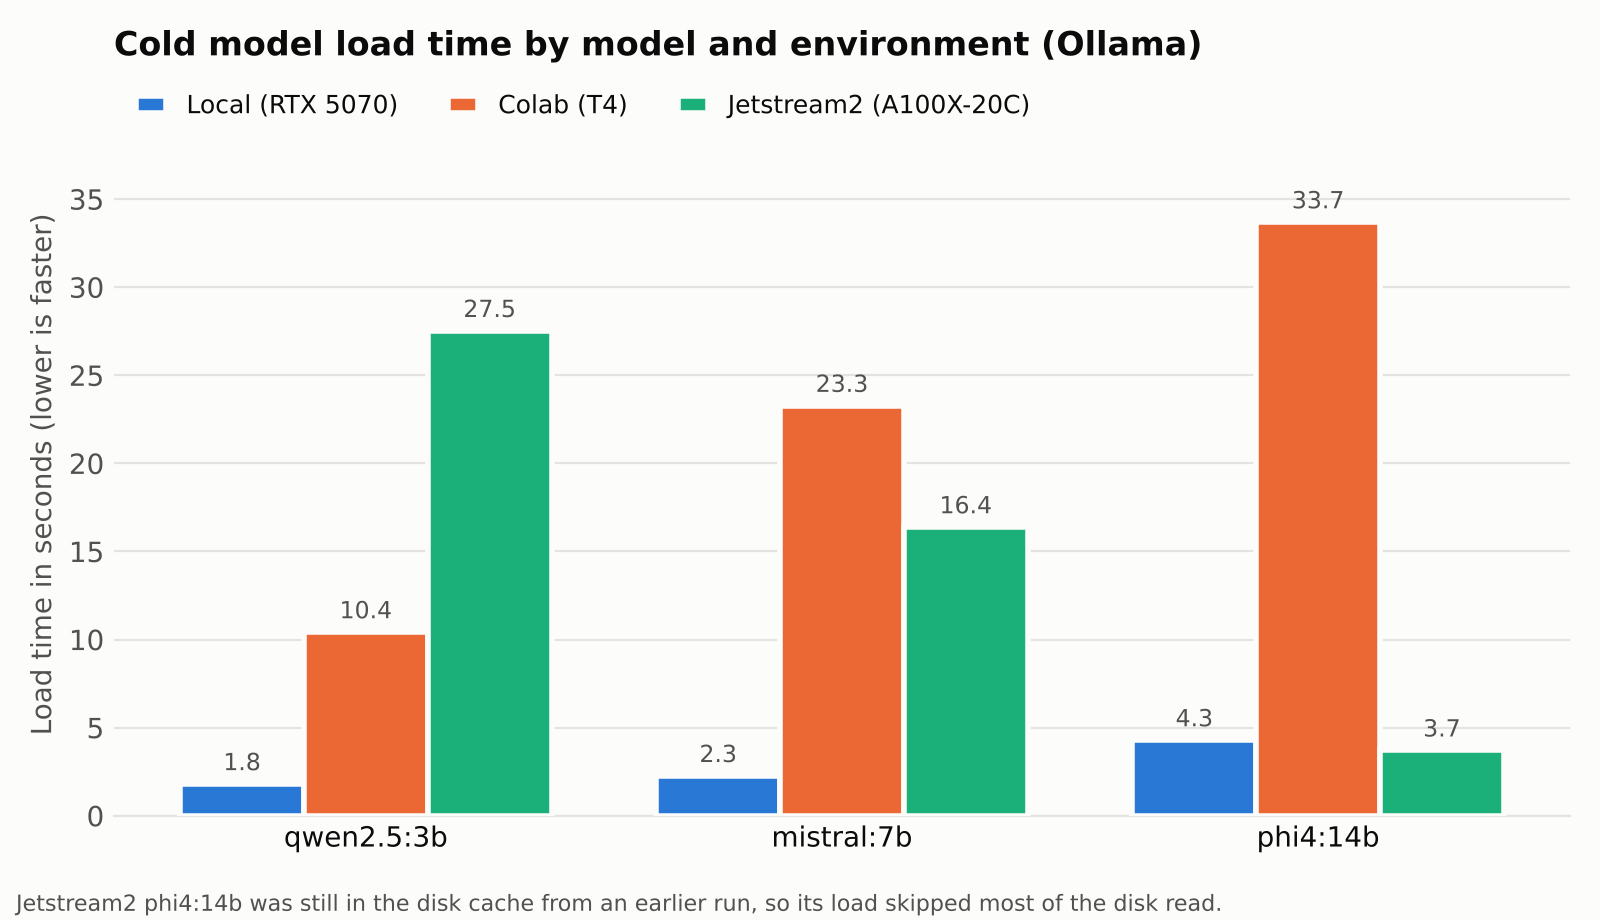
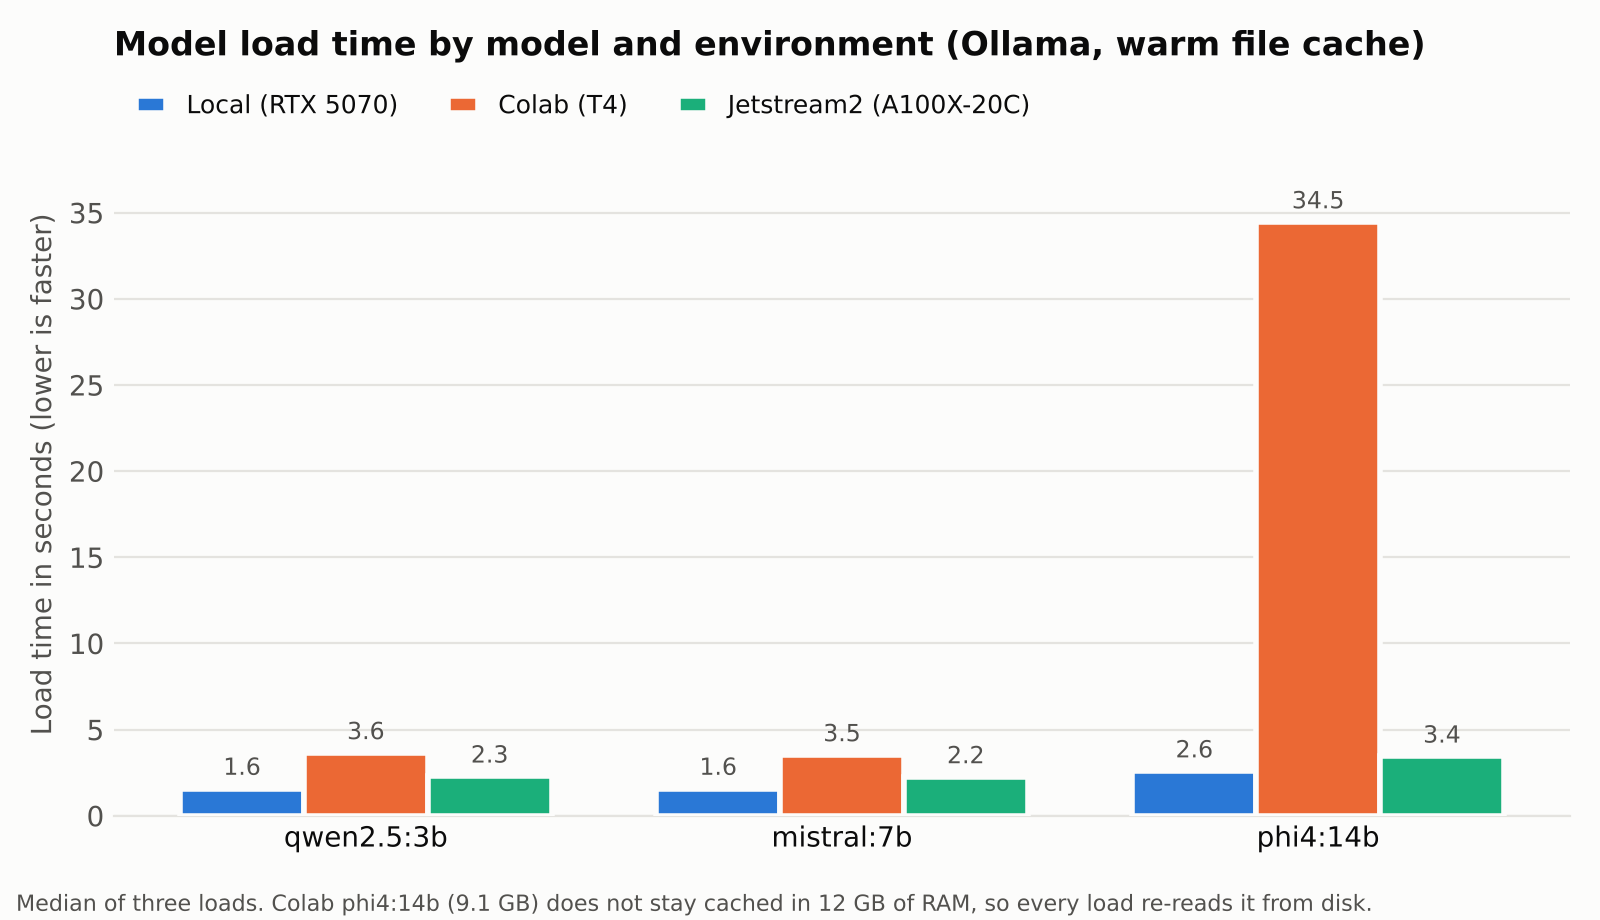
MP2: warm-cache load times and updated charts

diff --git a/module03/mp2_plan.md b/module03/mp2_plan.md
@@ -181,17 +181,17 @@ One row per model per environment. The same five prompts in every row.
 
 | Model | Params | Quant | Environment | Tool | Load (s) | P1 (s) | P2 (s) | P3 (s) | P4 (s) | P5 (s) | tok/s | VRAM (GB) | CPU offload? | Notes |
 |---|---|---|---|---|---|---|---|---|---|---|---|---|---|---|
-| qwen2.5:3b | 3B | Q4_K_M | Local | Ollama | 1.80 | 4.02 | 0.74 | 0.39 | 0.57 | 0.14 | 226.8 | 2.2 | no | rule checks 3/4 |
-| mistral:7b | 7B | Q4_K_M | Local | Ollama | 2.26 | 2.23 | 1.43 | 0.98 | 1.16 | 0.47 | 125.7 | 5.0 | no | rule checks 3/4 |
-| phi4:14b | 14B | Q4_K_M | Local | Ollama | 4.29 | 7.76 | 2.02 | 1.51 | 2.25 | 2.84 | 65.4 | 9.7 | no | rule checks 0/4 |
-| qwen2.5:3b | 3B | Q4_K_M | Local | Open WebUI | 1.61 | 3.03 | 0.63 | 0.42 | 0.51 | 0.30 | 217.1 | 2.2 | no | rule checks 3/4 |
+| qwen2.5:3b | 3B | Q4_K_M | Local | Ollama | 1.57 | 4.02 | 0.74 | 0.39 | 0.57 | 0.14 | 226.8 | 2.2 | no | rule checks 3/4 |
+| mistral:7b | 7B | Q4_K_M | Local | Ollama | 1.57 | 2.23 | 1.43 | 0.98 | 1.16 | 0.47 | 125.7 | 5.0 | no | rule checks 3/4 |
+| phi4:14b | 14B | Q4_K_M | Local | Ollama | 2.58 | 7.76 | 2.02 | 1.51 | 2.25 | 2.84 | 65.4 | 9.7 | no | rule checks 0/4 |
+| qwen2.5:3b | 3B | Q4_K_M | Local | Open WebUI | 1.61 | 3.03 | 0.63 | 0.42 | 0.51 | 0.30 | 217.1 | 2.2 | no | rule checks 3/4; load is the first request, not the warm-cache method |
 | Qwen2.5-3B-Instruct | 3B | 4-bit NF4 | Colab | transformers | 27.98 | 46.68 | 11.97 | 7.56 | 11.74 | 2.19 | 11.3 | 2.3 | no | rule checks 3/4; VRAM is torch peak allocated |
-| qwen2.5:3b | 3B | Q4_K_M | Colab | Ollama | 10.42 | 10.57 | 2.31 | 1.11 | 1.37 | 0.39 | 81.5 | 2.2 | no | rule checks 2/4 |
-| mistral:7b | 7B | Q4_K_M | Colab | Ollama | 23.27 | 5.69 | 5.15 | 2.78 | 5.18 | 1.34 | 38.1 | 5.0 | no | rule checks 3/4 |
-| phi4:14b | 14B | Q4_K_M | Colab | Ollama | 33.69 | 53.79 | 11.34 | 7.33 | 13.27 | 11.28 | 13.7 | 9.7 | no | rule checks 0/4 |
-| qwen2.5:3b | 3B | Q4_K_M | Jetstream2 | Ollama | 27.52 | 35.88 | 0.79 | 0.43 | 0.70 | 0.18 | 222.3 | 2.2 | no | rule checks 3/4; tok/s from P2–P5, P1 was the first request after an Ollama restart |
-| mistral:7b | 7B | Q4_K_M | Jetstream2 | Ollama | 16.38 | 10.90 | 1.10 | 0.70 | 1.08 | 0.38 | 156.1 | 5.0 | no | rule checks 3/4 |
-| phi4:14b | 14B | Q4_K_M | Jetstream2 | Ollama | 3.71 | 14.45 | 1.78 | 1.15 | 1.67 | 1.26 | 91.5 | 9.7 | no | rule checks 0/4 |
+| qwen2.5:3b | 3B | Q4_K_M | Colab | Ollama | 3.64 | 10.57 | 2.31 | 1.11 | 1.37 | 0.39 | 81.5 | 2.2 | no | rule checks 2/4 |
+| mistral:7b | 7B | Q4_K_M | Colab | Ollama | 3.52 | 5.69 | 5.15 | 2.78 | 5.18 | 1.34 | 38.1 | 5.0 | no | rule checks 3/4 |
+| phi4:14b | 14B | Q4_K_M | Colab | Ollama | 34.45 | 53.79 | 11.34 | 7.33 | 13.27 | 11.28 | 13.7 | 9.7 | no | rule checks 0/4 |
+| qwen2.5:3b | 3B | Q4_K_M | Jetstream2 | Ollama | 2.28 | 35.88 | 0.79 | 0.43 | 0.70 | 0.18 | 222.3 | 2.2 | no | rule checks 3/4; tok/s from P2–P5, P1 was the first request after an Ollama restart |
+| mistral:7b | 7B | Q4_K_M | Jetstream2 | Ollama | 2.24 | 10.90 | 1.10 | 0.70 | 1.08 | 0.38 | 156.1 | 5.0 | no | rule checks 3/4 |
+| phi4:14b | 14B | Q4_K_M | Jetstream2 | Ollama | 3.44 | 14.45 | 1.78 | 1.15 | 1.67 | 1.26 | 91.5 | 9.7 | no | rule checks 0/4 |
 
 ---
 
